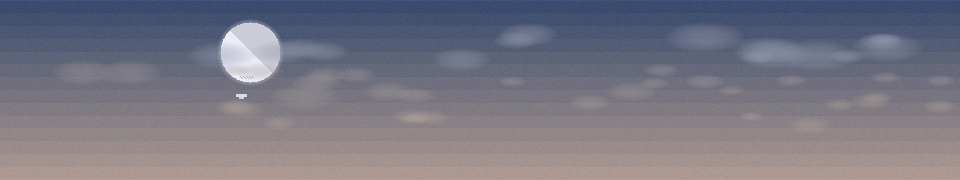
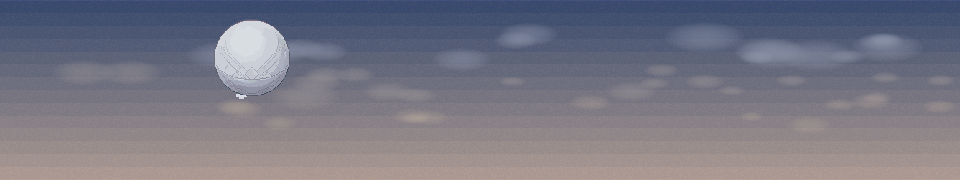
Earth: PixelLab-built layers + UI — Traveler, tilesets, HUD/build panels
Backgrounds:
- Traveler sphere replaces the crude procedural moon in earth/layer_0
- rubble/barricade silhouettes added to earth/fg_0 foreground strip
- Last City wall landmarks committed (earth_wall*, ready to place)

Terrain: chained sidescroller tilesets (grass-topped earth, murky water)
under assets/tilesets/earth/ (+ metadata).

UI: Destiny-console HUD bar and build panel (slate + Glimmer-gold) under
assets/ui/.

Compositing is reproducible via tools/build_earth_pixellab.py.

Changed region(s): [[0.2188, 0.1389, 0.3125, 0.5278], [0.25, 0.1111, 0.2812, 0.1389]]

diff --git a/tools/build_earth_pixellab.py b/tools/build_earth_pixellab.py
@@ -1,0 +1,88 @@
+"""Composite the PixelLab Earth landmarks into the parallax layers (#UI/maps).
+
+Bakes the Traveler into the sky (layer_0), the Last City wall into the distant
+silhouette band (layer_1), and rubble silhouettes into the foreground strip
+(fg_0) — matching the haze-to-distance convention in build_planet_backgrounds.
+
+Run from Game/:  python tools/build_earth_pixellab.py
+Writes *.new.png previews first when PREVIEW_ONLY, else replaces the layers.
+"""
+import os, sys
+from PIL import Image
+
+GAME = os.path.join(os.path.dirname(__file__), "..")
+BG = os.path.join(GAME, "assets", "backgrounds", "earth")
+LAND = os.path.join(GAME, "assets", "backgrounds", "_landmarks")
+PREVIEW_ONLY = "--write" not in sys.argv
+
+
+def load(p):
+    return Image.open(p).convert("RGBA")
+
+
+def scaled(im, h):
+    s = h / im.height
+    return im.resize((max(1, round(im.width * s)), h), Image.NEAREST)
+
+
+def haze(im, color, strength):
+    out = im.copy(); px = out.load()
+    for y in range(out.height):
+        for x in range(out.width):
+            r, g, b, a = px[x, y]
+            if a == 0:
+                continue
+            px[x, y] = (round(r+(color[0]-r)*strength), round(g+(color[1]-g)*strength),
+                        round(b+(color[2]-b)*strength), a)
+    return out
+
+
+def sky_color(layer0):
+    # average the top band = atmospheric haze target
+    top = layer0.crop((0, 0, layer0.width, 12)).convert("RGB")
+    px = list(top.getdata())
+    n = len(px)
+    return tuple(sum(c[i] for c in px)//n for i in range(3))
+
+
+def main():
+    l0 = load(os.path.join(BG, "layer_0.png"))
+    l1 = load(os.path.join(BG, "layer_1.png"))
+    fg = load(os.path.join(BG, "fg_0.png"))
+    W, H = l0.size
+    sky = sky_color(l0)
+    print("sky haze target:", sky)
+
+    # --- Traveler REPLACES the crude procedural moon (blob at x220-279,y22-98).
+    # Placed to cover it so there is exactly one celestial body. ---
+    trav = haze(scaled(load(os.path.join(LAND, "earth_traveler.png")), 92), sky, 0.15)
+    l0.alpha_composite(trav, (206, 12))
+    print("traveler over old moon at", (206, 12), "size", trav.size)
+
+    # --- Rubble silhouettes into fg_0 (near-black, like the car wrecks). ---
+    dark = (16, 19, 26)
+    for name, x, h in [("earth_rubble_a.png", 120, 24), ("earth_rubble_b.png", 520, 22),
+                       ("earth_rubble_a.png", 800, 20)]:
+        r = haze(scaled(load(os.path.join(LAND, name)), h), dark, 0.82)
+        fg.alpha_composite(r, (x, fg.height - 2 - h))
+    print("rubble placed x=", (120, 520, 800))
+
+    # --- flattened preview: stack far->near over the sky base color ---
+    prev = Image.new("RGBA", (W, H), sky + (255,))
+    for lyr in (l0, l1, load(os.path.join(BG, "layer_2.png")),
+                load(os.path.join(BG, "layer_3.png")), load(os.path.join(BG, "layer_4.png"))):
+        prev.alpha_composite(lyr)
+    prev.alpha_composite(fg, (0, H - fg.height))
+    prev.convert("RGB").save(os.path.join(GAME, "tools", "_earth_preview.png"))
+    print("wrote tools/_earth_preview.png")
+
+    if PREVIEW_ONLY:
+        print("PREVIEW ONLY — layers not modified (pass --write to commit)")
+        return
+    l0.save(os.path.join(BG, "layer_0.png"))
+    fg.save(os.path.join(BG, "fg_0.png"))
+    print("wrote earth/layer_0, fg_0")
+
+
+if __name__ == "__main__":
+    main()